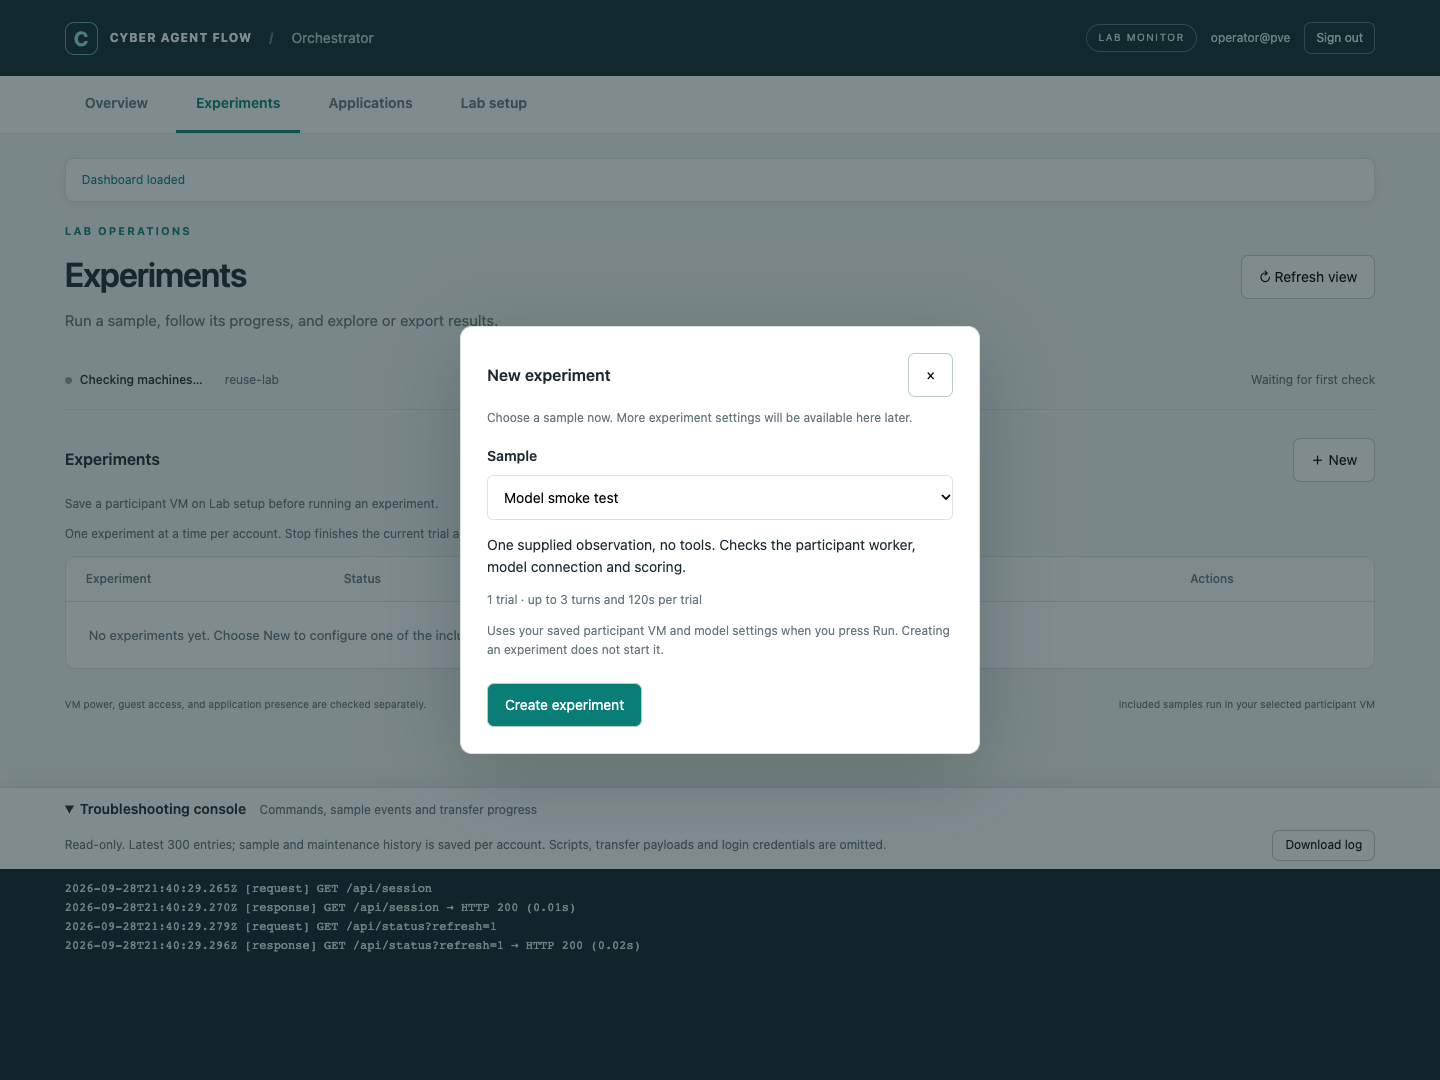
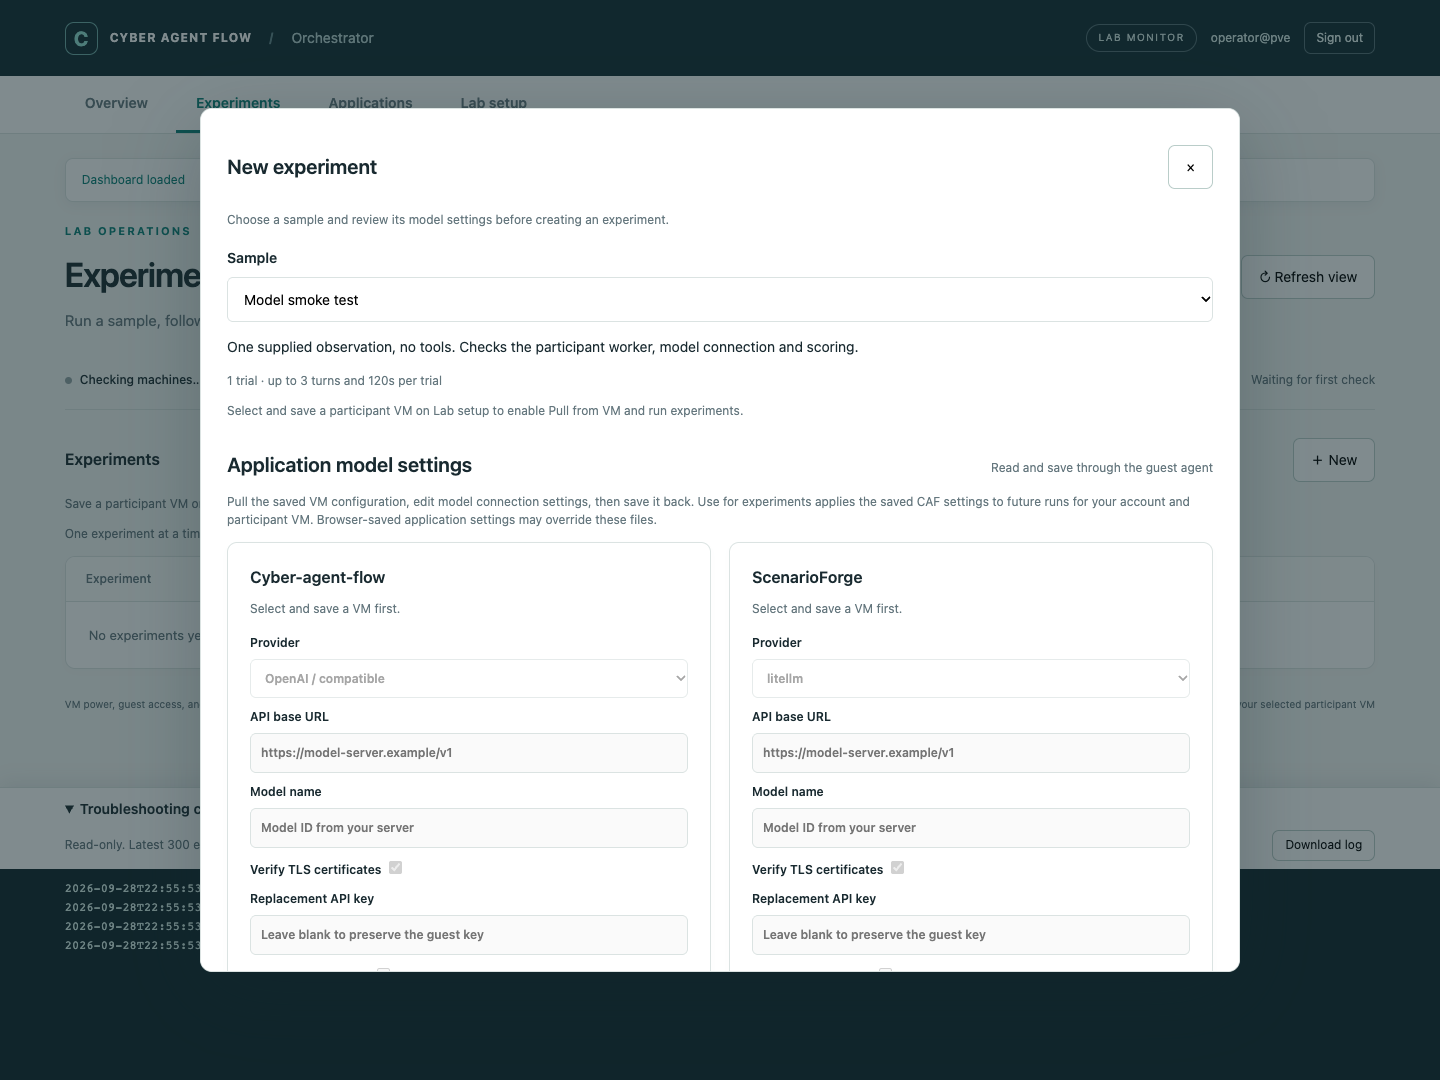
Move application model settings into new experiment dialog

diff --git a/cyber_agent_flow_orchestrator/static/index.html b/cyber_agent_flow_orchestrator/static/index.html
@@ -44,7 +44,7 @@
 <button id="save-roles" type="submit">Save VM roles</button>
 <p id="roles-message" class="small" role="status">Select a VM for each role. These selections belong to your account.</p>
 </form></section>
-<section id="model-config-panel" hidden aria-labelledby="model-config-title"><div class="section-title"><h2 id="model-config-title">Application model settings</h2><span>Read and save through the guest agent</span></div><p class="small">Pull the saved VM configuration, edit model connection settings, then save it back. Use for experiments applies the saved CAF settings to future runs for your account and participant VM. Browser-saved application settings may override these files.</p><div id="model-config-cards" class="sample-cards"></div></section>
+
 </div>
 </fieldset>
 <div data-page="setup" hidden><section aria-labelledby="refresh-title"><div class="section-title"><h2 id="refresh-title">Refresh preferences</h2></div><div class="refresh-settings"><label for="refresh-period">Automatic refresh</label><select id="refresh-period"><option value="0">Never</option><option value="1" selected>Every 1 minute</option><option value="2">Every 2 minutes</option><option value="5">Every 5 minutes</option><option value="10">Every 10 minutes</option></select><span class="small">Saved in this browser. Active operations still report progress.</span></div>
@@ -53,13 +53,18 @@
 </main>
 <dialog id="result-panel" class="result-panel" aria-labelledby="results-title"><div class="result-actions"><h2 id="results-title">Run results</h2><a id="download-dataset" hidden>Download CSV</a><button id="close-results" type="button">Close results</button></div><div id="result-summary"></div><details class="result-details"><summary>Full result details</summary><pre id="result-content"></pre></details></dialog>
 <dialog id="experiment-dialog" aria-labelledby="experiment-dialog-title">
-<form id="experiment-form"><div class="result-actions"><h2 id="experiment-dialog-title">New experiment</h2><button id="cancel-experiment" type="button" aria-label="Close new experiment">×</button></div>
-<p class="small">Choose a sample now. More experiment settings will be available here later.</p>
+<div class="result-actions experiment-dialog-heading"><h2 id="experiment-dialog-title">New experiment</h2><button id="cancel-experiment" type="button" aria-label="Close new experiment">×</button></div>
+<fieldset id="experiment-controls">
+<form id="experiment-form">
+<p class="small">Choose a sample and review its model settings before creating an experiment.</p>
 <label for="experiment-sample">Sample</label><select id="experiment-sample" required></select>
 <p id="experiment-description"></p><p id="experiment-budget" class="small"></p>
-<p class="small">Uses your saved participant VM and model settings when you press Run. Creating an experiment does not start it.</p>
-<p id="experiment-error" class="error" role="status"></p><button id="create-experiment" type="submit">Create experiment</button>
-</form></dialog>
+<p id="experiment-model-context" class="small"></p>
+</form>
+<section id="model-config-panel" hidden aria-labelledby="model-config-title"><div class="section-title"><h2 id="model-config-title">Application model settings</h2><span>Read and save through the guest agent</span></div><p class="small">Pull the saved VM configuration, edit model connection settings, then save it back. Use for experiments applies the saved CAF settings to future runs for your account and participant VM. Browser-saved application settings may override these files.</p><div id="model-config-cards" class="sample-cards"></div></section>
+<div class="experiment-dialog-footer"><p class="small">Creating an experiment does not start it. Run uses your saved participant VM and model settings.</p>
+<p id="experiment-error" class="error" role="status"></p><button id="create-experiment" type="submit" form="experiment-form">Create experiment</button></div>
+</fieldset></dialog>
 <details id="debug-console" class="debug-console" open><summary>Troubleshooting console <span class="small">Commands, sample events and transfer progress</span></summary>
 <div class="console-content">
 <div class="console-toolbar"><span class="small">Read-only. Latest 300 entries; sample and maintenance history is saved per account. Scripts, transfer payloads and login credentials are omitted.</span><button id="download-console" type="button">Download log</button></div>

diff --git a/cyber_agent_flow_orchestrator/static/style.css b/cyber_agent_flow_orchestrator/static/style.css
@@ -39,6 +39,8 @@
 .console-content{height:clamp(120px,24vh,250px);display:flex;flex-direction:column;min-height:0}
 .sample-global-status{padding:12px 16px;border:1px solid #b5d9cf;border-radius:8px;background:#e9f5ef;font-size:12px}.sample-global-status a{color:var(--teal);font-weight:600}.sample-activity{padding:20px;margin-bottom:16px}.sample-activity h3{margin:0;font-size:16px}.sample-activity progress{width:100%;accent-color:var(--teal)}.sample-stage{font-weight:600}.sample-activity details{margin-top:16px}.sample-activity summary{cursor:pointer}.sample-activity pre{font-size:11px;max-height:220px;overflow:auto;white-space:pre-wrap;overflow-wrap:anywhere}
 #sample-activity-panel{scroll-margin-top:80px}
-.experiments-table td:first-child,.experiments-table td:nth-child(2){white-space:normal;min-width:200px;max-width:440px;overflow-wrap:anywhere}.experiments-table .small{margin-top:6px}.experiment-actions{white-space:nowrap}.icon-action{padding:8px 12px;margin:0 3px;font-size:17px;line-height:1.3}.icon-action:disabled{opacity:.35}#experiment-dialog{width:min(520px,calc(100vw - 32px));max-height:80vh;overflow:auto;border:1px solid var(--line);border-radius:12px;padding:26px;color:var(--ink);box-shadow:0 20px 80px #10252b40}#experiment-dialog::backdrop{background:#10252b88}#experiment-form label{display:block;font-weight:600;margin:18px 0 8px}#experiment-sample{width:100%;padding:12px;font:inherit;border:1px solid var(--line);border-radius:6px}#create-experiment{background:var(--teal);color:white;margin-top:12px}#result-panel{width:min(1040px,calc(100vw - 32px));max-height:85vh;max-height:85dvh;overflow:auto;margin:auto;padding:24px;border:1px solid var(--line);border-radius:12px;color:var(--ink);background:var(--surface);box-shadow:0 20px 80px #10252b40}#result-panel::backdrop{background:#10252b88}#result-panel .result-actions{position:sticky;top:-24px;background:var(--surface);padding:12px 0;z-index:1}#result-panel .error{overflow-wrap:anywhere}body:has(#result-panel[open]){overflow:hidden}
+.experiments-table td:first-child,.experiments-table td:nth-child(2){white-space:normal;min-width:200px;max-width:440px;overflow-wrap:anywhere}.experiments-table .small{margin-top:6px}.experiment-actions{white-space:nowrap}.icon-action{padding:8px 12px;margin:0 3px;font-size:17px;line-height:1.3}.icon-action:disabled{opacity:.35}#experiment-dialog{width:min(1040px,calc(100vw - 32px));max-height:80vh;overflow:auto;border:1px solid var(--line);border-radius:12px;padding:26px;color:var(--ink);box-shadow:0 20px 80px #10252b40}#experiment-dialog::backdrop{background:#10252b88}#experiment-form label{display:block;font-weight:600;margin:18px 0 8px}#experiment-sample{width:100%;padding:12px;font:inherit;border:1px solid var(--line);border-radius:6px}#create-experiment{background:var(--teal);color:white;margin-top:12px}#result-panel{width:min(1040px,calc(100vw - 32px));max-height:85vh;max-height:85dvh;overflow:auto;margin:auto;padding:24px;border:1px solid var(--line);border-radius:12px;color:var(--ink);background:var(--surface);box-shadow:0 20px 80px #10252b40}#result-panel::backdrop{background:#10252b88}#result-panel .result-actions{position:sticky;top:-24px;background:var(--surface);padding:12px 0;z-index:1}#result-panel .error{overflow-wrap:anywhere}body:has(#result-panel[open]){overflow:hidden}
 
 .model-config label{display:block;margin:10px 0;font-size:12px;font-weight:600}.model-config input:not([type=checkbox]),.model-config select{display:block;width:100%;margin-top:6px;padding:10px;border:1px solid var(--line);border-radius:6px;font:inherit}.model-buttons{display:flex;gap:8px;flex-wrap:wrap}.model-config .small{overflow-wrap:anywhere}
+
+#experiment-controls{border:0;padding:0;margin:0;min-width:0}.experiment-dialog-heading{position:sticky;top:-26px;background:var(--surface);z-index:1;padding:10px 0}.experiment-dialog-footer{border-top:1px solid var(--line);margin-top:20px;padding-top:12px}#experiment-dialog #model-config-panel{margin-top:24px}#experiment-dialog h2{font-size:20px}

diff --git a/cyber_agent_flow_orchestrator/static/app.js b/cyber_agent_flow_orchestrator/static/app.js
@@ -44,6 +44,7 @@ try{const saved=localStorage.getItem('caf-refresh-minutes');if(refreshPeriods.in
 function isBusy(){return !initialized||blockingRefresh||Boolean(operation)||foregroundChecks||waitingForMaintenance||redirecting;}
 function syncBusy(){
  const busy=isBusy(), loading=busy||fetching||waitingForObservation;if(loading&&!wasBusy)busySince=performance.now();wasBusy=loading;
+ $('experiment-controls').disabled=busy;$('cancel-experiment').disabled=Boolean(operation)||experimentCreating;
  $('dashboard-controls').disabled=busy;$('dashboard-controls').setAttribute('aria-busy',String(busy));$('sign-out').disabled=busy;
  const lastChange=(snapshot?.updates?.jobs||[]).find(job=>job.action!=='inspect'&&(snapshot.updates.applications||[]).some(app=>app.role===job.role&&app.vmid===job.vmid));
  const maintenanceFailed=['failed','interrupted'].includes(lastChange?.status);
@@ -242,6 +243,7 @@ function runActive(run){return run.coordinator_active||run.sample_progress?.acti
 function renderSamples(data){
  const samples=data.samples,vm=samples?.participant_vmid;
  $('new-experiment').disabled=!samples?.items?.length;
+ $('experiment-model-context').textContent=vm?`Current experiment model: ${samples.provider} / ${samples.model} · Participant VM ${vm}. Pull from VM below to read its saved application settings.`:'Select and save a participant VM on Lab setup to enable Pull from VM and run experiments.';
  $('samples-context').textContent=vm?`Participant VM ${vm} · ${samples.provider} / ${samples.model}.`:'Save a participant VM on Lab setup before running an experiment.';
 }
 function iconAction(label,icon,disabled,callback){const button=el('button',null,'icon-action');button.type='button';button.title=label;button.setAttribute('aria-label',label);const glyph=el('span',icon);glyph.setAttribute('aria-hidden','true');button.append(glyph);button.disabled=disabled;button.addEventListener('click',callback);return button;}
@@ -265,8 +267,8 @@ $('close-progress').addEventListener('click',()=>{selectedProgress=null;$('sampl
 function describeSample(){const sample=snapshot?.samples?.items.find(s=>s.id===$('experiment-sample').value);$('experiment-description').textContent=sample?.description||'';$('experiment-budget').textContent=sample?`${sample.trials} trial${sample.trials===1?'':'s'} · up to ${sample.max_turns} turns and ${sample.wall_seconds}s per trial`:'';}
 $('new-experiment').addEventListener('click',()=>{if(isBusy())return;const select=$('experiment-sample');select.replaceChildren();for(const sample of snapshot?.samples?.items||[])select.add(new Option(sample.name,sample.id));$('experiment-error').textContent='';describeSample();$('experiment-dialog').showModal();});
 $('experiment-sample').addEventListener('change',describeSample);
-$('cancel-experiment').addEventListener('click',()=>{if(!experimentCreating)$('experiment-dialog').close();});
-$('experiment-dialog').addEventListener('cancel',event=>{if(experimentCreating)event.preventDefault();});
+$('cancel-experiment').addEventListener('click',()=>{if(!experimentCreating&&!operation)$('experiment-dialog').close();});
+$('experiment-dialog').addEventListener('cancel',event=>{if(experimentCreating||operation)event.preventDefault();});
 $('experiment-form').addEventListener('submit',async event=>{
  event.preventDefault();if(isBusy()||experimentCreating)return;
  experimentCreating=true;operation='Creating experiment…';syncBusy();for(const input of $('experiment-form').querySelectorAll('button,select'))input.disabled=true;

diff --git a/tests/browser_model_config.py b/tests/browser_model_config.py
@@ -54,6 +54,11 @@ def main():
                     expect(page.locator('#role-participant')).to_be_enabled(timeout=30000)
                     page.locator('#role-participant').select_option('9403');page.locator('#role-scenarioforge').select_option('9402')
                     page.get_by_role('button',name='Save VM roles').click()
+                    expect(page.locator('[data-page=setup] #model-config-panel')).to_have_count(0)
+                    page.locator('[data-route=experiments]').click()
+                    expect(page.locator('#new-experiment')).to_be_enabled(timeout=30000)
+                    page.locator('#new-experiment').click()
+                    expect(page.locator('#experiment-dialog #model-config-panel')).to_be_visible()
                     expect(page.locator('#model-participant-read')).to_be_enabled(timeout=30000)
                     page.locator('#model-participant-read').click()
                     expect(page.locator('#model-participant-model')).to_have_value('custom-model',timeout=30000)
@@ -76,7 +81,8 @@ def main():
                     assert 'CORE_HOST=10.0.0.2' in (roots[9402]/'.scenarioforge.env').read_text()
                     page.locator('#model-config-panel').scroll_into_view_if_needed()
                     page.screenshot(path=str(destination/'model-settings.png'))
-                    page.locator('[data-route=experiments]').click()
+                    expect(page.locator('#experiment-model-context')).to_contain_text('openai / updated-model')
+                    page.get_by_role('button',name='Close new experiment').click()
                     expect(page.locator('#samples-context')).to_contain_text('openai / updated-model')
                     page.reload();expect(page.locator('#samples-context')).to_contain_text('openai / updated-model',timeout=30000)
                     page.locator('#new-experiment').click();page.get_by_label('Sample',exact=True).select_option('smoke')
@@ -88,8 +94,11 @@ def main():
                     assert ev.read_json(run)['runtime']['model']['name']=='updated-model'
                     assert 'replacement-key' not in page.locator('#console-output').inner_text()
                     for path in workspace.path.rglob('*.json'): assert 'replacement-key' not in path.read_text()
-                    page.locator('[data-route=setup]').click();page.set_viewport_size({'width':390,'height':844})
+                    page.set_viewport_size({'width':390,'height':844})
+                    page.locator('#new-experiment').click()
+                    expect(page.locator('#model-participant-read')).to_be_enabled()
                     assert page.evaluate('document.documentElement.scrollWidth<=innerWidth')
+                    assert page.locator('#experiment-dialog').evaluate('(n)=>n.getBoundingClientRect().width<=innerWidth && n.getBoundingClientRect().height<=innerHeight')
                     page.screenshot(path=str(destination/'model-settings-mobile.png'),full_page=True)
                     assert not errors,errors
                     browser.close()

diff --git a/docs/webui.md b/docs/webui.md
@@ -155,9 +155,10 @@ Session/access errors clear the private console view along with the dashboard.
 ## Bundled samples
 
 Choose **New**, select either bundled sample, and press **Create experiment**.
-The modal shows its description and trial budgets. This saves a **Ready** row;
-it does not start a VM operation. Configuration currently consists of selecting
-the sample; future experiment settings can be added here.
+The modal shows its description, trial budgets, current experiment model and
+application model settings. **Pull from VM** reads the selected application's
+current saved configuration; edit/save it and choose **Use for experiments** for
+CAF when needed. **Create experiment** saves a **Ready** row without starting it.
 
 ![New experiment modal with simulated lab data](images/new-experiment.png)
 
@@ -295,8 +296,8 @@ alter any real scenario's preparation/reset steps.
 
 ### Application model settings
 
-After saving VM roles, **Lab setup → Application model settings** has an editor
-for each selected application:
+After saving VM roles on Lab setup, open **Experiments → New**. Its
+**Application model settings** section has an editor for each selected application:
 
 - **Pull from VM** reads the saved model connection fields through QEMU guest exec.
   CAF uses `<engine.path>/configs/cli.json`; ScenarioForge uses

diff --git a/README.md b/README.md
@@ -377,7 +377,7 @@ See [setup, source configuration, CLI and recovery](docs/application-updates.md)
 
 ### Choose your model before running
 
-On **Lab setup → Application model settings**, choose **Pull from VM** for
+Open **Experiments → New → Application model settings**, then choose **Pull from VM** for
 Cyber-agent-flow. The editor reads `configs/cli.json` from the selected participant.
 For an OpenAI-compatible endpoint, select **OpenAI / compatible**, enter the API
 base URL (usually `https://your-server/v1`) and its exact model name, then **Save
@@ -385,7 +385,7 @@ to VM** and **Use for experiments**. If the pulled settings are already correct,
 choose **Use for experiments** directly. Future samples and authenticated
 `user-run` workflows for your account and that VM use the selected model.
 
-The same page can read/save ScenarioForge's model settings in `.scenarioforge.env`.
+The same modal can read/save ScenarioForge's model settings in `.scenarioforge.env`.
 Other config fields are preserved. API keys are never shown when pulled; a blank
 replacement field preserves the key. Saving requires the configured maintenance
 group (default `caf-maintainers`). See [model configuration and credential handling](docs/webui.md#application-model-settings).
